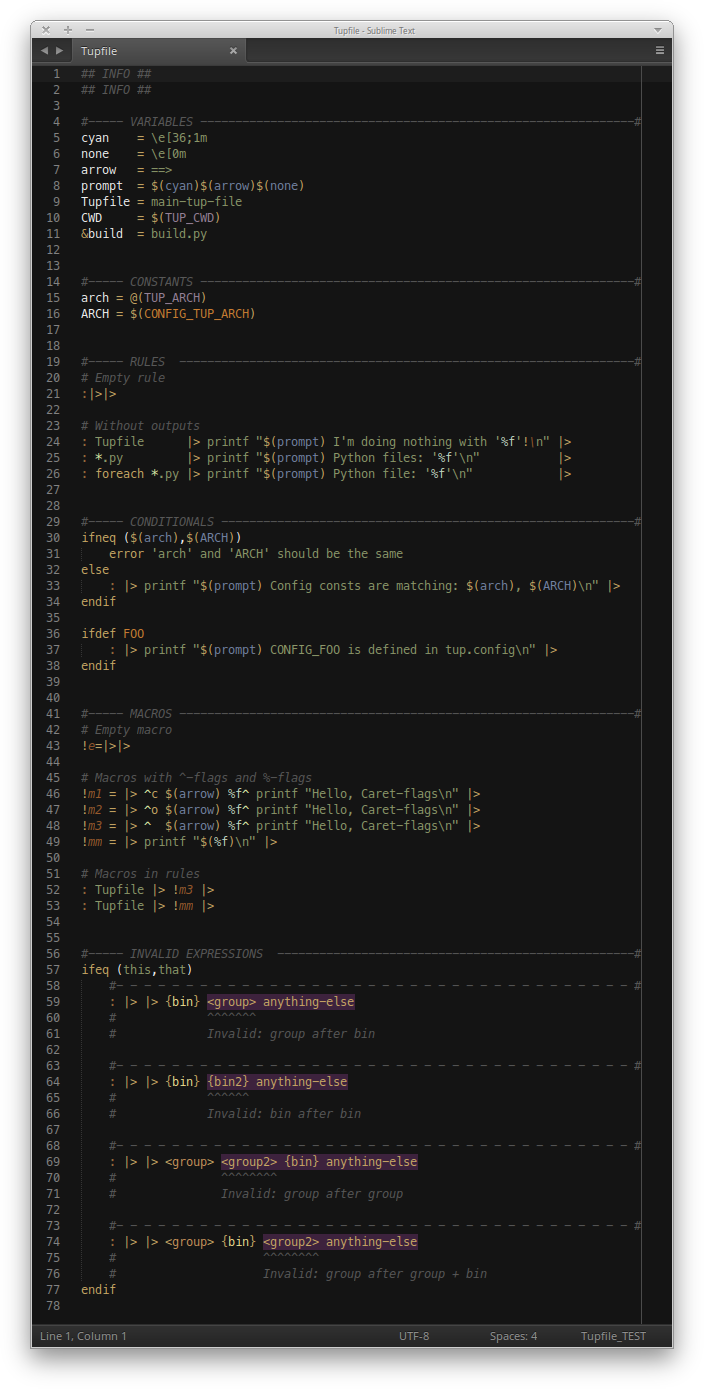
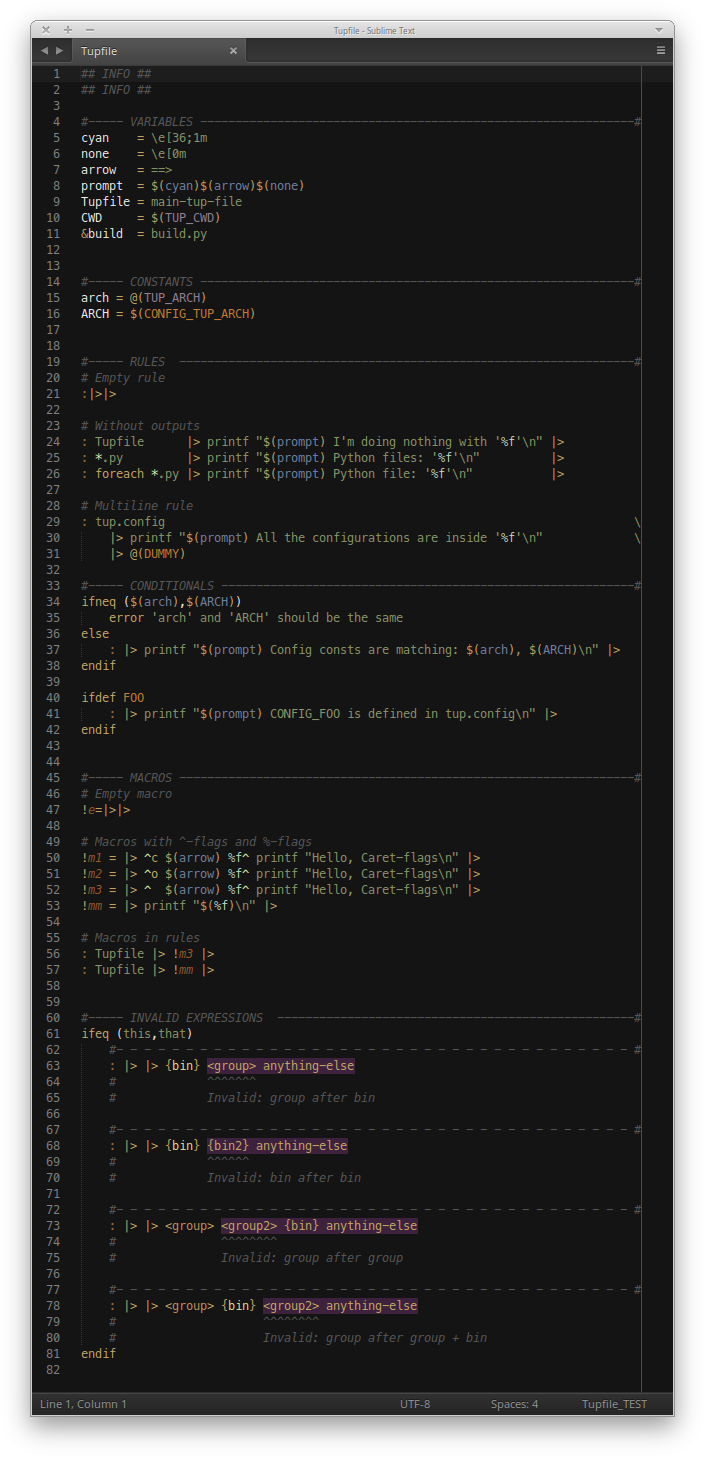
fixed multiline support (line continuation)

diff --git a/src/tup.py b/src/tup.py
@@ -74,7 +74,7 @@ syntax = {
                         # Group
                         {
                             'name' : 'keyword.operator.group.{SCOPE}',
-                            'match': r'<(.+?)>',
+                            'match': r'<(.+?)(?<!\|)>',
                             'captures':
                             {
                                 1: {'name': 'storage.modifier.group.{SCOPE}'}
@@ -128,11 +128,11 @@ syntax = {
                                                 },
                                                 {'include': '#io_string'},
                                             ],
-                                            'end': r'(?=(?<!\\)\n|$)'
+                                            'end': r'(?=(?<!\\)\n)'
                                         },
                                         {
                                             'name' : 'keyword.operator.group.{SCOPE}',
-                                            'begin': r'<(.+?)>',
+                                            'begin': r'<(.+?)(?<!\|)>',
                                             'beginCaptures':
                                             {
                                                 1: {'name': 'storage.modifier.group.{SCOPE}'}
@@ -158,24 +158,24 @@ syntax = {
                                                         },
                                                         {'include': '#io_string'},
                                                     ],
-                                                    'end': r'(?=(?<!\\)\n|$)'
+                                                    'end': r'(?=(?<!\\)\n)'
                                                 },
                                                 {'include': '#io_string'},
                                             ],
-                                            'end': r'(?=(?<!\\)\n|$)'
+                                            'end': r'(?=(?<!\\)\n)'
                                         },
                                         {'include': '#io_string'},
                                     ],
-                                    'end': r'(?=(?<!\\)\n|$)'
+                                    'end': r'(?=(?<!\\)\n)'
                                 },
                                 {'include': '#caret_flags'},
                                 {'include': '#cmd_string'},
                             ],
-                            'end': r'(?=(?<!\\)\n|$)'
+                            'end': r'(?=(?<!\\)\n)'
                         },
                         {'include': '#io_string'},
                     ],
-                    'end': r'(?=(?<!\\)\n|$)'
+                    'end': r'(?=(?<!\\)\n)'
                 },
                 {'include': '#io_string'}
             ],
@@ -204,7 +204,7 @@ syntax = {
                         # Group
                         {
                             'name' : 'keyword.operator.group.{SCOPE}',
-                            'match': r'<(.+?)>',
+                            'match': r'<(.+?)(?<!\|)>',
                             'captures':
                             {
                                 1: {'name': 'storage.modifier.group.{SCOPE}'}
@@ -258,11 +258,11 @@ syntax = {
                                                 },
                                                 {'include': '#io_string'},
                                             ],
-                                            'end': r'(?=(?<!\\)\n|$)'
+                                            'end': r'(?=(?<!\\)\n)'
                                         },
                                         {
                                             'name' : 'keyword.operator.group.{SCOPE}',
-                                            'begin': r'<(.+?)>',
+                                            'begin': r'<(.+?)(?<!\|)>',
                                             'beginCaptures':
                                             {
                                                 1: {'name': 'storage.modifier.group.{SCOPE}'}
@@ -288,24 +288,24 @@ syntax = {
                                                         },
                                                         {'include': '#io_string'},
                                                     ],
-                                                    'end': r'(?=(?<!\\)\n|$)'
+                                                    'end': r'(?=(?<!\\)\n)'
                                                 },
                                                 {'include': '#io_string'},
                                             ],
-                                            'end': r'(?=(?<!\\)\n|$)'
+                                            'end': r'(?=(?<!\\)\n)'
                                         },
                                         {'include': '#io_string'},
                                     ],
-                                    'end': r'(?=(?<!\\)\n|$)'
+                                    'end': r'(?=(?<!\\)\n)'
                                 },
                                 {'include': '#caret_flags'},
                                 {'include': '#cmd_string'},
                             ],
-                            'end': r'(?=(?<!\\)\n|$)'
+                            'end': r'(?=(?<!\\)\n)'
                         },
                         {'include': '#io_string'}
                     ],
-                    'end': r'(?=(?<!\\)\n|$)'
+                    'end': r'(?=(?<!\\)\n)'
                 },
             ],
             'end': r'(?<!\\)\n|$'
@@ -403,7 +403,7 @@ syntax = {
                     [
                         {'include': '#io_string'},
                     ],
-                    'end': r'(?=(?<!\\)\n|$)'
+                    'end': r'(?=(?<!\\)\n)'
                 },
             ],
             'end': r'(?<!\\)\n|$'
